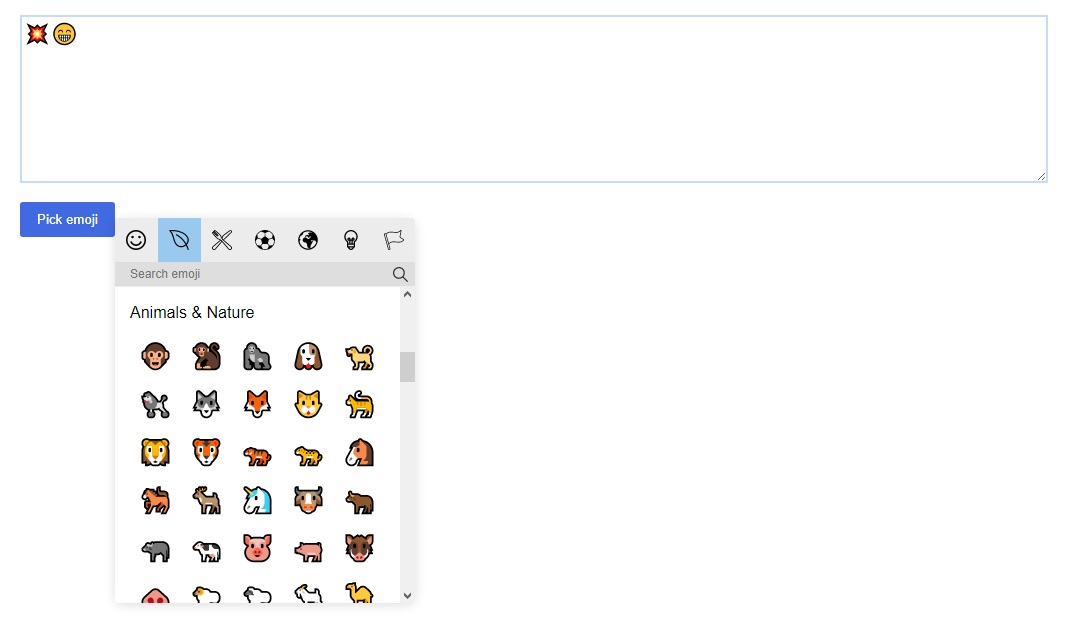
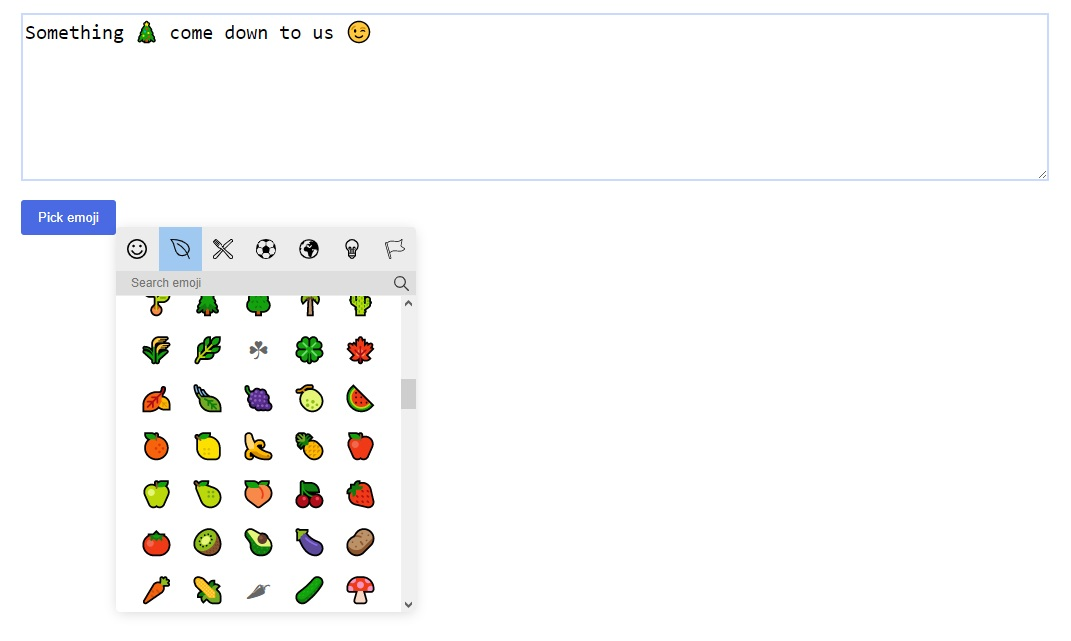
insertInto option, put emoji into cursor position

Changed region(s): [[0.0, 0.25, 0.9878, 0.9688], [0.0, 0.0, 0.9878, 0.0938]]

diff --git a/fgEmojiPicker.js b/fgEmojiPicker.js
@@ -33,6 +33,7 @@ const FgEmojiPicker = function (options) {
         this.variable.emit = this.options.emit || null;
         this.variable.position = this.options.position || null;
         this.variable.dir = this.options.dir || '';
+        this.insertInto = this.options.insertInto || undefined;
         if (!this.selectors.trigger) return;
 
         this.bindEvents();
@@ -60,10 +61,10 @@ const FgEmojiPicker = function (options) {
         }
     },
 
-        this.variable = {
-            position: null,
-            dir: '',
-        }
+    this.variable = {
+        position: null,
+        dir: '',
+    }
 
     this.selectors = {
         emit: null,
@@ -78,6 +79,21 @@ const FgEmojiPicker = function (options) {
     }
 
     this.functions = {
+
+        // Put in place 
+        putInPlace(myField, myValue) {
+            if (document.selection) {
+                myField.focus();
+                sel = document.selection.createRange();
+                sel.text = myValue;
+            } else if (myField.selectionStart || myField.selectionStart == "0") {
+                const startPos = myField.selectionStart;
+                const endPos = myField.selectionEnd;
+                myField.value = myField.value.substring(0, startPos) + myValue + myField.value.substring(endPos, myField.value.length);
+            } else {
+                myField.value += myValue;
+            }
+        },
 
         // Search
         search(e) {
@@ -276,6 +292,9 @@ const FgEmojiPicker = function (options) {
                     code: el.getAttribute('data-code')
                 }
                 if (this.variable.emit) this.variable.emit(emoji, this.triggerer)
+                
+                // If insert into option exists
+                if (this.insertInto) this.functions.putInPlace(this.insertInto, emoji.emoji)
 
                 const picker = document.querySelector('.fg-emoji-picker');
                 picker.remove();
@@ -387,22 +406,22 @@ const FgEmojiPicker = function (options) {
 
 
 
-        // Create emoji container / Builder engine
-        this.emojiPicker = () => {
+    // Create emoji container / Builder engine
+    this.emojiPicker = () => {
 
-            let categoryIcons = {
-                'smileys--people': '<svg width="20" version="1.1" id="Capa_1" xmlns="http://www.w3.org/2000/svg" xmlns:xlink="http://www.w3.org/1999/xlink" x="0px" y="0px" viewBox="0 0 512 512" style="enable-background:new 0 0 512 512;" xml:space="preserve"> <g> <g> <path d="M437.02,74.98C388.667,26.629,324.38,0,256,0S123.333,26.629,74.98,74.98C26.629,123.333,0,187.62,0,256 s26.629,132.668,74.98,181.02C123.333,485.371,187.62,512,256,512s132.667-26.629,181.02-74.98 C485.371,388.668,512,324.38,512,256S485.371,123.333,437.02,74.98z M256,472c-119.103,0-216-96.897-216-216S136.897,40,256,40 s216,96.897,216,216S375.103,472,256,472z"/> </g> </g> <g> <g> <path d="M368.993,285.776c-0.072,0.214-7.298,21.626-25.02,42.393C321.419,354.599,292.628,368,258.4,368 c-34.475,0-64.195-13.561-88.333-40.303c-18.92-20.962-27.272-42.54-27.33-42.691l-37.475,13.99 c0.42,1.122,10.533,27.792,34.013,54.273C171.022,389.074,212.215,408,258.4,408c46.412,0,86.904-19.076,117.099-55.166 c22.318-26.675,31.165-53.55,31.531-54.681L368.993,285.776z"/> </g> </g> <g> <g> <circle cx="168" cy="180.12" r="32"/> </g> </g> <g> <g> <circle cx="344" cy="180.12" r="32"/> </g> </g> <g> </g> <g> </g> <g> </g> </svg>',
-                'animals--nature': '<svg width="20" version="1.1" id="Capa_1" xmlns="http://www.w3.org/2000/svg" xmlns:xlink="http://www.w3.org/1999/xlink" x="0px" y="0px" viewBox="0 0 354.968 354.968" style="enable-background:new 0 0 354.968 354.968;" xml:space="preserve"> <g> <g> <path d="M350.775,341.319c-9.6-28.4-20.8-55.2-34.4-80.8c0.4-0.4,0.8-1.2,1.6-1.6c30.8-34.8,44-83.6,20.4-131.6 c-20.4-41.6-65.6-76.4-124.8-98.8c-57.2-22-127.6-32.4-200.4-27.2c-5.6,0.4-10,5.2-9.6,10.8c0.4,2.8,1.6,5.6,4,7.2 c36.8,31.6,50,79.2,63.6,126.8c8,28,15.6,55.6,28.4,81.2c0,0.4,0.4,0.4,0.4,0.8c30.8,59.6,78,81.2,122.8,78.4 c18.4-1.2,36-6.4,52.4-14.4c9.2-4.8,18-10.4,26-16.8c11.6,23.2,22,47.2,30.4,72.8c1.6,5.2,7.6,8,12.8,6.4 C349.975,352.119,352.775,346.519,350.775,341.319z M271.175,189.319c-34.8-44.4-78-82.4-131.6-112.4c-4.8-2.8-11.2-1.2-13.6,4 c-2.8,4.8-1.2,11.2,4,13.6c50.8,28.8,92.4,64.8,125.6,107.2c13.2,17.2,25.2,35.2,36,54c-8,7.6-16.4,13.6-25.6,18 c-14,7.2-28.8,11.6-44.4,12.4c-37.6,2.4-77.2-16-104-67.6v-0.4c-11.6-24-19.2-50.8-26.8-78c-12.4-43.2-24.4-86.4-53.6-120.4 c61.6-1.6,120.4,8.4,169.2,27.2c54.4,20.8,96,52,114,88.8c18.8,38,9.2,76.8-14.4,105.2 C295.575,222.919,283.975,205.719,271.175,189.319z"/> </g> </g> <g> </g> <g> </g> <g> </g> </svg>',
-                'travel--places': '<svg width="20" version="1.1" id="Layer_1" xmlns="http://www.w3.org/2000/svg" xmlns:xlink="http://www.w3.org/1999/xlink" x="0px" y="0px" viewBox="0 0 512.003 512.003" style="enable-background:new 0 0 512.003 512.003;" xml:space="preserve"> <g> <g> <path d="M492.638,416.168c-35.445-29.635-139.695-117.048-187.5-159.684c25.879-23.721,62.112-58.999,97.354-93.327 c40.344-39.302,78.458-76.417,95.729-91c8.76-7.385,13.781-18.24,13.781-29.781c0-14.438-7.51-27.24-20.094-34.24 c-12.521-6.958-27.26-6.615-39.438,0.948c-39.313,24.385-196.469,137.25-196.469,161.583c0,7.178-0.293,15.621-2.85,25.203 c-11.751-20.152-18.483-38.615-18.483-46.536c0-15.177-51.573-64.615-153.292-146.958c-4.219-3.427-10.385-3.115-14.25,0.75 l-64,64c-3.865,3.854-4.188,10.01-0.75,14.25c82.344,101.719,131.781,153.292,146.958,153.292c9.056,0,31.823,8.76,55.227,23.852 C157.266,300.56,60.87,381.466,19.388,416.147C7.066,426.449,0.003,441.605,0.003,457.73c0,29.927,24.344,54.271,54.271,54.271 c16.115,0,31.281-7.073,41.583-19.406c35.645-42.613,119.006-141.934,160.151-187.994 c42.456,47.553,130.417,152.456,160.172,188.035c10.292,12.313,25.448,19.365,41.552,19.365c29.927,0,54.271-24.344,54.271-54.271 C512.003,441.626,504.951,426.47,492.638,416.168z M277.336,172.543c11.219-17.521,121.354-104.99,186.385-145.333 c5.5-3.385,12.167-3.573,17.813-0.438c5.719,3.188,9.135,9.021,9.135,15.604c0,5.24-2.26,10.146-6.208,13.479 c-17.854,15.073-56.229,52.448-96.854,92.021c-35.809,34.887-72.602,70.699-98.298,94.167c-1.604-1.518-3.255-3.074-4.431-4.25 c-6.327-6.327-12.008-13.227-17.279-20.24C276.351,199.191,277.309,183.556,277.336,172.543z M79.493,478.907 c-6.24,7.479-15.438,11.76-25.219,11.76c-18.167,0-32.938-14.771-32.938-32.938c0-9.792,4.281-18.979,11.74-25.208 c42.625-35.651,143.104-119.991,189.254-161.26c5.341,4.263,10.582,8.732,15.465,13.615c1.036,1.036,2.443,2.535,3.746,3.905 C200.651,334.428,115.631,435.712,79.493,478.907z M457.732,490.668c-9.781,0-18.958-4.271-25.188-11.719 c-45.26-54.125-153.365-182.854-179.667-209.156c-32.146-32.146-80.802-56.208-101.417-56.208c-0.104,0-0.219,0.01-0.323,0.01 c-12.563-4.885-72.802-72.781-126.125-138.188l6.99-6.99l99.125,99.125c2.083,2.083,4.813,3.125,7.542,3.125 c2.729,0,5.458-1.042,7.542-3.125c4.167-4.167,4.167-10.917,0-15.083L47.086,53.334l6.25-6.25l99.125,99.125 c2.083,2.083,4.813,3.125,7.542,3.125s5.458-1.042,7.542-3.125c4.167-4.167,4.167-10.917,0-15.083L68.42,32.001l6.99-6.99 c65.406,53.323,133.292,113.49,137.927,124.323c0,22.229,24.146,71.229,56.458,103.542 c26.302,26.302,155.031,134.406,209.156,179.656c7.448,6.24,11.719,15.417,11.719,25.198 C490.67,475.897,475.899,490.668,457.732,490.668z"/> </g> </g> <g> </g> <g> </g> <g> </g> <g> </g> </svg>',
-                'activities': '<svg width="20" viewBox="0 0 480 480" xmlns="http://www.w3.org/2000/svg"><path d="m240 0c-132.546875 0-240 107.453125-240 240s107.453125 240 240 240 240-107.453125 240-240c-.148438-132.484375-107.515625-239.851562-240-240zm8.566406 69.191406 83.433594-33.351562c9.46875 4.285156 18.628906 9.222656 27.414062 14.777344l.21875.136718c8.632813 5.46875 16.882813 11.519532 24.695313 18.109375l.671875.585938c3.503906 2.984375 6.910156 6.074219 10.222656 9.261719.417969.410156.855469.800781 1.273438 1.21875 3.472656 3.390624 6.835937 6.886718 10.089844 10.484374.269531.304688.527343.625.796874.929688 2.855469 3.199219 5.601563 6.511719 8.265626 9.878906.640624.800782 1.28125 1.601563 1.902343 2.402344 2.890625 3.742188 5.6875 7.550781 8.328125 11.480469l-16.632812 70.703125-81.832032 27.28125-78.828124-63.074219zm-186.125 34.480469c.621094-.800781 1.253906-1.601563 1.894532-2.398437 2.632812-3.339844 5.355468-6.597657 8.167968-9.777344.304688-.335938.585938-.679688.886719-1.015625 3.234375-3.605469 6.582031-7.097657 10.050781-10.480469.398438-.390625.796875-.800781 1.214844-1.160156 3.285156-3.167969 6.664062-6.238282 10.136719-9.207032l.800781-.671874c7.742188-6.542969 15.914062-12.554688 24.460938-18l.3125-.199219c8.734374-5.542969 17.835937-10.472657 27.25-14.761719l83.816406 33.191406v80.800782l-78.832032 63.0625-81.832031-27.230469-16.632812-70.703125c2.664062-3.921875 5.429687-7.722656 8.304687-11.449219zm-9.640625 259.089844c-2.351562-3.585938-4.601562-7.238281-6.746093-10.960938l-.519532-.898437c-2.132812-3.703125-4.152344-7.46875-6.054687-11.292969l-.066407-.121094c-4.007812-8.046875-7.527343-16.328125-10.535156-24.800781v-.078125c-1.421875-4-2.71875-8.097656-3.917968-12.21875l-.433594-1.519531c-1.097656-3.871094-2.09375-7.785156-2.984375-11.742188-.078125-.386718-.175781-.753906-.253907-1.136718-1.964843-8.9375-3.375-17.984376-4.226562-27.097657l48.839844-58.605469 81.265625 27.085938 23.585937 94.335938-38.753906 51.5625zm240.472657 94.78125c-4 .992187-8.105469 1.847656-12.210938 2.617187-.574219.113282-1.160156.207032-1.734375.3125-3.496094.625-7.03125 1.160156-10.574219 1.597656-.945312.121094-1.882812.25-2.824218.363282-3.289063.382812-6.609376.671875-9.9375.910156-1.046876.070312-2.082032.175781-3.128907.242188-4.253906.261718-8.542969.414062-12.863281.414062-3.957031 0-7.890625-.105469-11.800781-.3125-.472657 0-.925781-.078125-1.398438-.113281-3.480469-.199219-6.945312-.460938-10.402343-.796875l-.398438-.074219c-7.574219-.820313-15.105469-2.023437-22.558594-3.597656l-47.320312-74.089844 38.144531-50.863281h111.46875l38.769531 51.199218zm165.496093-169.542969c-.082031.382812-.175781.753906-.257812 1.136719-.894531 3.953125-1.890625 7.867187-2.984375 11.742187l-.429688 1.519532c-1.203125 4.121093-2.496094 8.203124-3.921875 12.21875v.078124c-3.007812 8.472657-6.523437 16.753907-10.535156 24.800782l-.066406.121094c-1.914063 3.828124-3.929688 7.59375-6.054688 11.292968l-.519531.898438c-2.132812 3.734375-4.378906 7.378906-6.734375 10.945312l-78.929687 12.445313-39.023438-51.519531 23.574219-94.3125 81.265625-27.085938 48.839844 58.605469c-.847657 9.117187-2.257813 18.171875-4.222657 27.113281zm0 0"/></svg>',
-                'objects': '<svg width="20" version="1.1" xmlns="http://www.w3.org/2000/svg" xmlns:xlink="http://www.w3.org/1999/xlink" x="0px" y="0px" viewBox="0 0 1000 1000" enable-background="new 0 0 1000 1000" xml:space="preserve"> <g><g><path d="M846.5,153.5C939,246.1,990,369.1,990,500c0,130.9-51,253.9-143.5,346.5C753.9,939,630.9,990,500,990c-130.9,0-253.9-51-346.5-143.5C61,753.9,10,630.9,10,500c0-130.9,51-253.9,143.5-346.5C246.1,61,369.1,10,500,10C630.9,10,753.9,61,846.5,153.5z M803.2,803.2c60.3-60.3,100.5-135.5,117-217.3c-12.9,19-25.2,26-32.9-16.5c-7.9-69.3-71.5-25-111.5-49.6c-42.1,28.4-136.8-55.2-120.7,39.1c24.8,42.5,134-56.9,79.6,33.1c-34.7,62.8-126.9,201.9-114.9,274c1.5,105-107.3,21.9-144.8-12.9c-25.2-69.8-8.6-191.8-74.6-225.9c-71.6-3.1-133-9.6-160.8-89.6c-16.7-57.3,17.8-142.5,79.1-155.7c89.8-56.4,121.9,66.1,206.1,68.4c26.2-27.4,97.4-36.1,103.4-66.8c-55.3-9.8,70.1-46.5-5.3-67.4c-41.6,4.9-68.4,43.1-46.3,75.6C496,410.3,493.5,274.8,416,317.6c-2,67.6-126.5,21.9-43.1,8.2c28.7-12.5-46.8-48.8-6-42.2c20-1.1,87.4-24.7,69.2-40.6c37.5-23.3,69.1,55.8,105.8-1.8c26.5-44.3-11.1-52.5-44.4-30c-18.7-21,33.1-66.3,78.8-85.9c15.2-6.5,29.8-10.1,40.9-9.1c23,26.6,65.6,31.2,67.8-3.2c-57-27.3-119.9-41.7-185-41.7c-93.4,0-182.3,29.7-255.8,84.6c19.8,9.1,31,20.3,11.9,34.7c-14.8,44.1-74.8,103.2-127.5,94.9c-27.4,47.2-45.4,99.2-53.1,153.6c44.1,14.6,54.3,43.5,44.8,53.2c-22.5,19.6-36.3,47.4-43.4,77.8C91.3,658,132.6,739,196.8,803.2c81,81,188.6,125.6,303.2,125.6C614.5,928.8,722.2,884.2,803.2,803.2z"/></g><g></g><g></g><g></g><g></g><g></g><g></g><g></g><g></g><g></g><g></g><g></g><g></g><g></g><g></g><g></g></g> </svg>',
-                'symbols': '<svg width="20" version="1.1" id="Layer_1" xmlns="http://www.w3.org/2000/svg" xmlns:xlink="http://www.w3.org/1999/xlink" x="0px" y="0px" viewBox="0 0 512 512" style="enable-background:new 0 0 512 512;" xml:space="preserve"> <g> <g> <path d="M256,0C161.33,0,84.312,77.018,84.312,171.688c0,54.38,25.587,105.127,68.882,137.502c0,7.915,0,121.305,0,125.043 c0,9.22,7.475,16.696,16.696,16.696h10.168C187.72,485.81,218.85,512,256,512c37.15,0,68.28-26.19,75.943-61.072h10.168 c9.22,0,16.696-7.475,16.696-16.696c0-3.762,0-117.209,0-125.043c43.294-32.375,68.882-83.122,68.882-137.502 C427.688,77.018,350.67,0,256,0z M256,478.609c-18.567,0-34.507-11.461-41.116-27.68h82.233 C290.507,467.148,274.567,478.609,256,478.609z M325.415,417.537c-4.855,0-132.083,0-138.83,0v-39.041h138.83V417.537z M211.096,242.095h-8.057c-4.443,0-8.058-3.615-8.058-8.058s3.615-8.057,8.058-8.057c4.443,0,8.057,3.614,8.057,8.057V242.095z M244.488,345.105v-69.619h23.017v69.619H244.488z M332.824,286.684c-4.63,3.099-7.41,8.303-7.41,13.875v44.545h-24.519v-69.619 h8.058c22.855,0,41.449-18.594,41.449-41.45c0-22.855-18.593-41.449-41.449-41.449c-22.855,0-41.45,18.593-41.45,41.449v8.058 h-23.017v-8.058c0-22.855-18.593-41.449-41.449-41.449c-22.855,0-41.45,18.593-41.45,41.449s18.594,41.45,41.45,41.45h8.057 v69.619h-24.511V300.56c0-5.572-2.779-10.776-7.41-13.875c-38.491-25.759-61.472-68.748-61.472-114.996 c0-76.258,62.039-138.297,138.297-138.297S394.297,95.43,394.297,171.688C394.297,217.937,371.316,260.926,332.824,286.684z M300.896,242.095v-8.058c0-4.443,3.615-8.057,8.058-8.057c4.443,0,8.057,3.614,8.057,8.057s-3.614,8.058-8.057,8.058H300.896z"/> </g> </g> <g> </g> <g> </g> <g> </g> <g> </g> <g> </g> <g> </g> </svg>',
-                'flags': '<svg width="20" viewBox="0 0 60 60" xmlns="http://www.w3.org/2000/svg"><g id="Page-1" fill="none" fill-rule="evenodd"><g id="037---Waypoint-Flag" fill="rgb(0,0,0)" fill-rule="nonzero" transform="translate(0 -1)"><path id="Shape" d="m59.0752 28.5054c-3.7664123-1.873859-7.2507049-4.2678838-10.3506-7.1118 1.5923634-6.0211307 2.7737841-12.14349669 3.5361-18.3248.1788-1.44-.623-1.9047-.872-2.0126-.7016942-.26712004-1.4944908-.00419148-1.8975.6293-5.4726 6.5479-12.9687 5.8008-20.9053 5.0054-7.9985-.8-16.2506-1.6116-22.3684 5.4114-.85552122-1.067885-2.26533581-1.5228479-3.5837-1.1565l-.1377.0386c-1.81412367.5095218-2.87378593 2.391025-2.3691 4.2065l12.2089 43.6891c.3541969 1.2645215 1.5052141 2.1399137 2.8184 2.1435.2677318-.0003961.5341685-.0371657.792-.1093l1.0683-.2984h.001c.7485787-.2091577 1.3833789-.7071796 1.7646969-1.3844635.381318-.677284.4779045-1.478326.2685031-2.2268365l-3.7812-13.5327c5.5066-7.0807 13.18-6.3309 21.2988-5.52 8.1094.81 16.4863 1.646 22.64-5.7129l.0029-.0039c.6044387-.7534187.8533533-1.7315007.6826-2.6822-.0899994-.4592259-.3932698-.8481635-.8167-1.0474zm-42.0381 29.7446c-.1201754.2157725-.3219209.3742868-.56.44l-1.0684.2983c-.4949157.1376357-1.0078362-.1513714-1.1465-.646l-12.2095-43.6895c-.20840349-.7523825.23089143-1.5316224.9825-1.7428l.1367-.0381c.12366014-.0348192.25153137-.0524183.38-.0523.63429117.0010181 1.19083557.4229483 1.3631 1.0334l.1083.3876v.0021l6.2529 22.3755 5.8468 20.9238c.0669515.2380103.0360256.4929057-.0859.708zm40.6329-27.2925c-5.4736 6.5459-12.9707 5.7974-20.9043 5.0039-7.9033-.79-16.06-1.605-22.1552 5.1558l-5.463-19.548-2.0643-7.3873c5.5068-7.0794 13.1796-6.3119 21.3045-5.5007 7.7148.7695 15.6787 1.5664 21.7373-4.7095-.7467138 5.70010904-1.859683 11.3462228-3.332 16.9033-.1993066.7185155.0267229 1.4878686.583 1.9844 3.1786296 2.9100325 6.7366511 5.3762694 10.5771 7.3315-.0213812.2768572-.1194065.5422977-.2831.7666z"/></g></g></svg>',
-                'search': '<svg width="20" version="1.1" id="Capa_1" xmlns="http://www.w3.org/2000/svg" xmlns:xlink="http://www.w3.org/1999/xlink" x="0px" y="0px" viewBox="0 0 511.999 511.999" style="enable-background:new 0 0 511.999 511.999;" xml:space="preserve"> <g> <g> <path d="M508.874,478.708L360.142,329.976c28.21-34.827,45.191-79.103,45.191-127.309c0-111.75-90.917-202.667-202.667-202.667 S0,90.917,0,202.667s90.917,202.667,202.667,202.667c48.206,0,92.482-16.982,127.309-45.191l148.732,148.732 c4.167,4.165,10.919,4.165,15.086,0l15.081-15.082C513.04,489.627,513.04,482.873,508.874,478.708z M202.667,362.667 c-88.229,0-160-71.771-160-160s71.771-160,160-160s160,71.771,160,160S290.896,362.667,202.667,362.667z"/> </g> </g> <g> </g> <g> </g> <g> </g> <g> </g> </svg>',
-            }
+        let categoryIcons = {
+            'smileys--people': '<svg width="20" version="1.1" id="Capa_1" xmlns="http://www.w3.org/2000/svg" xmlns:xlink="http://www.w3.org/1999/xlink" x="0px" y="0px" viewBox="0 0 512 512" style="enable-background:new 0 0 512 512;" xml:space="preserve"> <g> <g> <path d="M437.02,74.98C388.667,26.629,324.38,0,256,0S123.333,26.629,74.98,74.98C26.629,123.333,0,187.62,0,256 s26.629,132.668,74.98,181.02C123.333,485.371,187.62,512,256,512s132.667-26.629,181.02-74.98 C485.371,388.668,512,324.38,512,256S485.371,123.333,437.02,74.98z M256,472c-119.103,0-216-96.897-216-216S136.897,40,256,40 s216,96.897,216,216S375.103,472,256,472z"/> </g> </g> <g> <g> <path d="M368.993,285.776c-0.072,0.214-7.298,21.626-25.02,42.393C321.419,354.599,292.628,368,258.4,368 c-34.475,0-64.195-13.561-88.333-40.303c-18.92-20.962-27.272-42.54-27.33-42.691l-37.475,13.99 c0.42,1.122,10.533,27.792,34.013,54.273C171.022,389.074,212.215,408,258.4,408c46.412,0,86.904-19.076,117.099-55.166 c22.318-26.675,31.165-53.55,31.531-54.681L368.993,285.776z"/> </g> </g> <g> <g> <circle cx="168" cy="180.12" r="32"/> </g> </g> <g> <g> <circle cx="344" cy="180.12" r="32"/> </g> </g> <g> </g> <g> </g> <g> </g> </svg>',
+            'animals--nature': '<svg width="20" version="1.1" id="Capa_1" xmlns="http://www.w3.org/2000/svg" xmlns:xlink="http://www.w3.org/1999/xlink" x="0px" y="0px" viewBox="0 0 354.968 354.968" style="enable-background:new 0 0 354.968 354.968;" xml:space="preserve"> <g> <g> <path d="M350.775,341.319c-9.6-28.4-20.8-55.2-34.4-80.8c0.4-0.4,0.8-1.2,1.6-1.6c30.8-34.8,44-83.6,20.4-131.6 c-20.4-41.6-65.6-76.4-124.8-98.8c-57.2-22-127.6-32.4-200.4-27.2c-5.6,0.4-10,5.2-9.6,10.8c0.4,2.8,1.6,5.6,4,7.2 c36.8,31.6,50,79.2,63.6,126.8c8,28,15.6,55.6,28.4,81.2c0,0.4,0.4,0.4,0.4,0.8c30.8,59.6,78,81.2,122.8,78.4 c18.4-1.2,36-6.4,52.4-14.4c9.2-4.8,18-10.4,26-16.8c11.6,23.2,22,47.2,30.4,72.8c1.6,5.2,7.6,8,12.8,6.4 C349.975,352.119,352.775,346.519,350.775,341.319z M271.175,189.319c-34.8-44.4-78-82.4-131.6-112.4c-4.8-2.8-11.2-1.2-13.6,4 c-2.8,4.8-1.2,11.2,4,13.6c50.8,28.8,92.4,64.8,125.6,107.2c13.2,17.2,25.2,35.2,36,54c-8,7.6-16.4,13.6-25.6,18 c-14,7.2-28.8,11.6-44.4,12.4c-37.6,2.4-77.2-16-104-67.6v-0.4c-11.6-24-19.2-50.8-26.8-78c-12.4-43.2-24.4-86.4-53.6-120.4 c61.6-1.6,120.4,8.4,169.2,27.2c54.4,20.8,96,52,114,88.8c18.8,38,9.2,76.8-14.4,105.2 C295.575,222.919,283.975,205.719,271.175,189.319z"/> </g> </g> <g> </g> <g> </g> <g> </g> </svg>',
+            'travel--places': '<svg width="20" version="1.1" id="Layer_1" xmlns="http://www.w3.org/2000/svg" xmlns:xlink="http://www.w3.org/1999/xlink" x="0px" y="0px" viewBox="0 0 512.003 512.003" style="enable-background:new 0 0 512.003 512.003;" xml:space="preserve"> <g> <g> <path d="M492.638,416.168c-35.445-29.635-139.695-117.048-187.5-159.684c25.879-23.721,62.112-58.999,97.354-93.327 c40.344-39.302,78.458-76.417,95.729-91c8.76-7.385,13.781-18.24,13.781-29.781c0-14.438-7.51-27.24-20.094-34.24 c-12.521-6.958-27.26-6.615-39.438,0.948c-39.313,24.385-196.469,137.25-196.469,161.583c0,7.178-0.293,15.621-2.85,25.203 c-11.751-20.152-18.483-38.615-18.483-46.536c0-15.177-51.573-64.615-153.292-146.958c-4.219-3.427-10.385-3.115-14.25,0.75 l-64,64c-3.865,3.854-4.188,10.01-0.75,14.25c82.344,101.719,131.781,153.292,146.958,153.292c9.056,0,31.823,8.76,55.227,23.852 C157.266,300.56,60.87,381.466,19.388,416.147C7.066,426.449,0.003,441.605,0.003,457.73c0,29.927,24.344,54.271,54.271,54.271 c16.115,0,31.281-7.073,41.583-19.406c35.645-42.613,119.006-141.934,160.151-187.994 c42.456,47.553,130.417,152.456,160.172,188.035c10.292,12.313,25.448,19.365,41.552,19.365c29.927,0,54.271-24.344,54.271-54.271 C512.003,441.626,504.951,426.47,492.638,416.168z M277.336,172.543c11.219-17.521,121.354-104.99,186.385-145.333 c5.5-3.385,12.167-3.573,17.813-0.438c5.719,3.188,9.135,9.021,9.135,15.604c0,5.24-2.26,10.146-6.208,13.479 c-17.854,15.073-56.229,52.448-96.854,92.021c-35.809,34.887-72.602,70.699-98.298,94.167c-1.604-1.518-3.255-3.074-4.431-4.25 c-6.327-6.327-12.008-13.227-17.279-20.24C276.351,199.191,277.309,183.556,277.336,172.543z M79.493,478.907 c-6.24,7.479-15.438,11.76-25.219,11.76c-18.167,0-32.938-14.771-32.938-32.938c0-9.792,4.281-18.979,11.74-25.208 c42.625-35.651,143.104-119.991,189.254-161.26c5.341,4.263,10.582,8.732,15.465,13.615c1.036,1.036,2.443,2.535,3.746,3.905 C200.651,334.428,115.631,435.712,79.493,478.907z M457.732,490.668c-9.781,0-18.958-4.271-25.188-11.719 c-45.26-54.125-153.365-182.854-179.667-209.156c-32.146-32.146-80.802-56.208-101.417-56.208c-0.104,0-0.219,0.01-0.323,0.01 c-12.563-4.885-72.802-72.781-126.125-138.188l6.99-6.99l99.125,99.125c2.083,2.083,4.813,3.125,7.542,3.125 c2.729,0,5.458-1.042,7.542-3.125c4.167-4.167,4.167-10.917,0-15.083L47.086,53.334l6.25-6.25l99.125,99.125 c2.083,2.083,4.813,3.125,7.542,3.125s5.458-1.042,7.542-3.125c4.167-4.167,4.167-10.917,0-15.083L68.42,32.001l6.99-6.99 c65.406,53.323,133.292,113.49,137.927,124.323c0,22.229,24.146,71.229,56.458,103.542 c26.302,26.302,155.031,134.406,209.156,179.656c7.448,6.24,11.719,15.417,11.719,25.198 C490.67,475.897,475.899,490.668,457.732,490.668z"/> </g> </g> <g> </g> <g> </g> <g> </g> <g> </g> </svg>',
+            'activities': '<svg width="20" viewBox="0 0 480 480" xmlns="http://www.w3.org/2000/svg"><path d="m240 0c-132.546875 0-240 107.453125-240 240s107.453125 240 240 240 240-107.453125 240-240c-.148438-132.484375-107.515625-239.851562-240-240zm8.566406 69.191406 83.433594-33.351562c9.46875 4.285156 18.628906 9.222656 27.414062 14.777344l.21875.136718c8.632813 5.46875 16.882813 11.519532 24.695313 18.109375l.671875.585938c3.503906 2.984375 6.910156 6.074219 10.222656 9.261719.417969.410156.855469.800781 1.273438 1.21875 3.472656 3.390624 6.835937 6.886718 10.089844 10.484374.269531.304688.527343.625.796874.929688 2.855469 3.199219 5.601563 6.511719 8.265626 9.878906.640624.800782 1.28125 1.601563 1.902343 2.402344 2.890625 3.742188 5.6875 7.550781 8.328125 11.480469l-16.632812 70.703125-81.832032 27.28125-78.828124-63.074219zm-186.125 34.480469c.621094-.800781 1.253906-1.601563 1.894532-2.398437 2.632812-3.339844 5.355468-6.597657 8.167968-9.777344.304688-.335938.585938-.679688.886719-1.015625 3.234375-3.605469 6.582031-7.097657 10.050781-10.480469.398438-.390625.796875-.800781 1.214844-1.160156 3.285156-3.167969 6.664062-6.238282 10.136719-9.207032l.800781-.671874c7.742188-6.542969 15.914062-12.554688 24.460938-18l.3125-.199219c8.734374-5.542969 17.835937-10.472657 27.25-14.761719l83.816406 33.191406v80.800782l-78.832032 63.0625-81.832031-27.230469-16.632812-70.703125c2.664062-3.921875 5.429687-7.722656 8.304687-11.449219zm-9.640625 259.089844c-2.351562-3.585938-4.601562-7.238281-6.746093-10.960938l-.519532-.898437c-2.132812-3.703125-4.152344-7.46875-6.054687-11.292969l-.066407-.121094c-4.007812-8.046875-7.527343-16.328125-10.535156-24.800781v-.078125c-1.421875-4-2.71875-8.097656-3.917968-12.21875l-.433594-1.519531c-1.097656-3.871094-2.09375-7.785156-2.984375-11.742188-.078125-.386718-.175781-.753906-.253907-1.136718-1.964843-8.9375-3.375-17.984376-4.226562-27.097657l48.839844-58.605469 81.265625 27.085938 23.585937 94.335938-38.753906 51.5625zm240.472657 94.78125c-4 .992187-8.105469 1.847656-12.210938 2.617187-.574219.113282-1.160156.207032-1.734375.3125-3.496094.625-7.03125 1.160156-10.574219 1.597656-.945312.121094-1.882812.25-2.824218.363282-3.289063.382812-6.609376.671875-9.9375.910156-1.046876.070312-2.082032.175781-3.128907.242188-4.253906.261718-8.542969.414062-12.863281.414062-3.957031 0-7.890625-.105469-11.800781-.3125-.472657 0-.925781-.078125-1.398438-.113281-3.480469-.199219-6.945312-.460938-10.402343-.796875l-.398438-.074219c-7.574219-.820313-15.105469-2.023437-22.558594-3.597656l-47.320312-74.089844 38.144531-50.863281h111.46875l38.769531 51.199218zm165.496093-169.542969c-.082031.382812-.175781.753906-.257812 1.136719-.894531 3.953125-1.890625 7.867187-2.984375 11.742187l-.429688 1.519532c-1.203125 4.121093-2.496094 8.203124-3.921875 12.21875v.078124c-3.007812 8.472657-6.523437 16.753907-10.535156 24.800782l-.066406.121094c-1.914063 3.828124-3.929688 7.59375-6.054688 11.292968l-.519531.898438c-2.132812 3.734375-4.378906 7.378906-6.734375 10.945312l-78.929687 12.445313-39.023438-51.519531 23.574219-94.3125 81.265625-27.085938 48.839844 58.605469c-.847657 9.117187-2.257813 18.171875-4.222657 27.113281zm0 0"/></svg>',
+            'objects': '<svg width="20" version="1.1" xmlns="http://www.w3.org/2000/svg" xmlns:xlink="http://www.w3.org/1999/xlink" x="0px" y="0px" viewBox="0 0 1000 1000" enable-background="new 0 0 1000 1000" xml:space="preserve"> <g><g><path d="M846.5,153.5C939,246.1,990,369.1,990,500c0,130.9-51,253.9-143.5,346.5C753.9,939,630.9,990,500,990c-130.9,0-253.9-51-346.5-143.5C61,753.9,10,630.9,10,500c0-130.9,51-253.9,143.5-346.5C246.1,61,369.1,10,500,10C630.9,10,753.9,61,846.5,153.5z M803.2,803.2c60.3-60.3,100.5-135.5,117-217.3c-12.9,19-25.2,26-32.9-16.5c-7.9-69.3-71.5-25-111.5-49.6c-42.1,28.4-136.8-55.2-120.7,39.1c24.8,42.5,134-56.9,79.6,33.1c-34.7,62.8-126.9,201.9-114.9,274c1.5,105-107.3,21.9-144.8-12.9c-25.2-69.8-8.6-191.8-74.6-225.9c-71.6-3.1-133-9.6-160.8-89.6c-16.7-57.3,17.8-142.5,79.1-155.7c89.8-56.4,121.9,66.1,206.1,68.4c26.2-27.4,97.4-36.1,103.4-66.8c-55.3-9.8,70.1-46.5-5.3-67.4c-41.6,4.9-68.4,43.1-46.3,75.6C496,410.3,493.5,274.8,416,317.6c-2,67.6-126.5,21.9-43.1,8.2c28.7-12.5-46.8-48.8-6-42.2c20-1.1,87.4-24.7,69.2-40.6c37.5-23.3,69.1,55.8,105.8-1.8c26.5-44.3-11.1-52.5-44.4-30c-18.7-21,33.1-66.3,78.8-85.9c15.2-6.5,29.8-10.1,40.9-9.1c23,26.6,65.6,31.2,67.8-3.2c-57-27.3-119.9-41.7-185-41.7c-93.4,0-182.3,29.7-255.8,84.6c19.8,9.1,31,20.3,11.9,34.7c-14.8,44.1-74.8,103.2-127.5,94.9c-27.4,47.2-45.4,99.2-53.1,153.6c44.1,14.6,54.3,43.5,44.8,53.2c-22.5,19.6-36.3,47.4-43.4,77.8C91.3,658,132.6,739,196.8,803.2c81,81,188.6,125.6,303.2,125.6C614.5,928.8,722.2,884.2,803.2,803.2z"/></g><g></g><g></g><g></g><g></g><g></g><g></g><g></g><g></g><g></g><g></g><g></g><g></g><g></g><g></g><g></g></g> </svg>',
+            'symbols': '<svg width="20" version="1.1" id="Layer_1" xmlns="http://www.w3.org/2000/svg" xmlns:xlink="http://www.w3.org/1999/xlink" x="0px" y="0px" viewBox="0 0 512 512" style="enable-background:new 0 0 512 512;" xml:space="preserve"> <g> <g> <path d="M256,0C161.33,0,84.312,77.018,84.312,171.688c0,54.38,25.587,105.127,68.882,137.502c0,7.915,0,121.305,0,125.043 c0,9.22,7.475,16.696,16.696,16.696h10.168C187.72,485.81,218.85,512,256,512c37.15,0,68.28-26.19,75.943-61.072h10.168 c9.22,0,16.696-7.475,16.696-16.696c0-3.762,0-117.209,0-125.043c43.294-32.375,68.882-83.122,68.882-137.502 C427.688,77.018,350.67,0,256,0z M256,478.609c-18.567,0-34.507-11.461-41.116-27.68h82.233 C290.507,467.148,274.567,478.609,256,478.609z M325.415,417.537c-4.855,0-132.083,0-138.83,0v-39.041h138.83V417.537z M211.096,242.095h-8.057c-4.443,0-8.058-3.615-8.058-8.058s3.615-8.057,8.058-8.057c4.443,0,8.057,3.614,8.057,8.057V242.095z M244.488,345.105v-69.619h23.017v69.619H244.488z M332.824,286.684c-4.63,3.099-7.41,8.303-7.41,13.875v44.545h-24.519v-69.619 h8.058c22.855,0,41.449-18.594,41.449-41.45c0-22.855-18.593-41.449-41.449-41.449c-22.855,0-41.45,18.593-41.45,41.449v8.058 h-23.017v-8.058c0-22.855-18.593-41.449-41.449-41.449c-22.855,0-41.45,18.593-41.45,41.449s18.594,41.45,41.45,41.45h8.057 v69.619h-24.511V300.56c0-5.572-2.779-10.776-7.41-13.875c-38.491-25.759-61.472-68.748-61.472-114.996 c0-76.258,62.039-138.297,138.297-138.297S394.297,95.43,394.297,171.688C394.297,217.937,371.316,260.926,332.824,286.684z M300.896,242.095v-8.058c0-4.443,3.615-8.057,8.058-8.057c4.443,0,8.057,3.614,8.057,8.057s-3.614,8.058-8.057,8.058H300.896z"/> </g> </g> <g> </g> <g> </g> <g> </g> <g> </g> <g> </g> <g> </g> </svg>',
+            'flags': '<svg width="20" viewBox="0 0 60 60" xmlns="http://www.w3.org/2000/svg"><g id="Page-1" fill="none" fill-rule="evenodd"><g id="037---Waypoint-Flag" fill="rgb(0,0,0)" fill-rule="nonzero" transform="translate(0 -1)"><path id="Shape" d="m59.0752 28.5054c-3.7664123-1.873859-7.2507049-4.2678838-10.3506-7.1118 1.5923634-6.0211307 2.7737841-12.14349669 3.5361-18.3248.1788-1.44-.623-1.9047-.872-2.0126-.7016942-.26712004-1.4944908-.00419148-1.8975.6293-5.4726 6.5479-12.9687 5.8008-20.9053 5.0054-7.9985-.8-16.2506-1.6116-22.3684 5.4114-.85552122-1.067885-2.26533581-1.5228479-3.5837-1.1565l-.1377.0386c-1.81412367.5095218-2.87378593 2.391025-2.3691 4.2065l12.2089 43.6891c.3541969 1.2645215 1.5052141 2.1399137 2.8184 2.1435.2677318-.0003961.5341685-.0371657.792-.1093l1.0683-.2984h.001c.7485787-.2091577 1.3833789-.7071796 1.7646969-1.3844635.381318-.677284.4779045-1.478326.2685031-2.2268365l-3.7812-13.5327c5.5066-7.0807 13.18-6.3309 21.2988-5.52 8.1094.81 16.4863 1.646 22.64-5.7129l.0029-.0039c.6044387-.7534187.8533533-1.7315007.6826-2.6822-.0899994-.4592259-.3932698-.8481635-.8167-1.0474zm-42.0381 29.7446c-.1201754.2157725-.3219209.3742868-.56.44l-1.0684.2983c-.4949157.1376357-1.0078362-.1513714-1.1465-.646l-12.2095-43.6895c-.20840349-.7523825.23089143-1.5316224.9825-1.7428l.1367-.0381c.12366014-.0348192.25153137-.0524183.38-.0523.63429117.0010181 1.19083557.4229483 1.3631 1.0334l.1083.3876v.0021l6.2529 22.3755 5.8468 20.9238c.0669515.2380103.0360256.4929057-.0859.708zm40.6329-27.2925c-5.4736 6.5459-12.9707 5.7974-20.9043 5.0039-7.9033-.79-16.06-1.605-22.1552 5.1558l-5.463-19.548-2.0643-7.3873c5.5068-7.0794 13.1796-6.3119 21.3045-5.5007 7.7148.7695 15.6787 1.5664 21.7373-4.7095-.7467138 5.70010904-1.859683 11.3462228-3.332 16.9033-.1993066.7185155.0267229 1.4878686.583 1.9844 3.1786296 2.9100325 6.7366511 5.3762694 10.5771 7.3315-.0213812.2768572-.1194065.5422977-.2831.7666z"/></g></g></svg>',
+            'search': '<svg width="20" version="1.1" id="Capa_1" xmlns="http://www.w3.org/2000/svg" xmlns:xlink="http://www.w3.org/1999/xlink" x="0px" y="0px" viewBox="0 0 511.999 511.999" style="enable-background:new 0 0 511.999 511.999;" xml:space="preserve"> <g> <g> <path d="M508.874,478.708L360.142,329.976c28.21-34.827,45.191-79.103,45.191-127.309c0-111.75-90.917-202.667-202.667-202.667 S0,90.917,0,202.667s90.917,202.667,202.667,202.667c48.206,0,92.482-16.982,127.309-45.191l148.732,148.732 c4.167,4.165,10.919,4.165,15.086,0l15.081-15.082C513.04,489.627,513.04,482.873,508.874,478.708z M202.667,362.667 c-88.229,0-160-71.771-160-160s71.771-160,160-160s160,71.771,160,160S290.896,362.667,202.667,362.667z"/> </g> </g> <g> </g> <g> </g> <g> </g> <g> </g> </svg>',
+        }
 
 
-            let picker = `
+        let picker = `
         <div class="fg-emoji-picker">
             <div class="fg-emoji-picker-categories">%categories%
                 <div class="fg-emoji-picker-search">
@@ -413,12 +432,10 @@ const FgEmojiPicker = function (options) {
             <div>%pickerContainer%</div>
         </div>`;
 
-            let categories = '<ul>%categories%</ul>';
+            let categories      = '<ul>%categories%</ul>';
             let categoriesInner = ``;
-            let outerUl = `
-        <div class="fg-emoji-picker-all-categories">%outerUL%</div>
-        `;
-            let innerLists = ``;
+            let outerUl         = `<div class="fg-emoji-picker-all-categories">%outerUL%</div>`;
+            let innerLists      = ``;
 
             let fetchData = null;
             if (this.emojiJson) {
@@ -437,17 +454,17 @@ const FgEmojiPicker = function (options) {
                             categoriesInner += `<li class="${index === 1 ? 'active' : ''}" id="${keyToId}" data-index="${keyToId}"><a href="#${keyToId}">${categoryIcons[keyToId]}</a></li>`
 
                             innerLists += `
-                    <ul class="fg-emoji-picker-category ${index === 1 ? 'active' : ''}" id="${keyToId}" category-name="${key}">
-                        <div class="fg-emoji-picker-container-title">${key}</div>
-                        <div class="fg-emoji-picker-grid">`;
+                            <ul class="fg-emoji-picker-category ${index === 1 ? 'active' : ''}" id="${keyToId}" category-name="${key}">
+                                <div class="fg-emoji-picker-container-title">${key}</div>
+                                <div class="fg-emoji-picker-grid">`;
 
-                            // Loop through emoji items
-                            categories.forEach(item => {
-                                innerLists += `<li data-name="${item.description.toLowerCase()}"><a class="fg-emoji-picker-item" title="${item.description}" data-name="${item.description.toLowerCase()}" data-code="${item.code}" href="${item.emoji}">${item.emoji}</a></li>`;
-                            });
-                            innerLists += `
-                        </div>
-                    </ul>`;
+                                    // Loop through emoji items
+                                    categories.forEach(item => {
+                                        innerLists += `<li data-name="${item.description.toLowerCase()}"><a class="fg-emoji-picker-item" title="${item.description}" data-name="${item.description.toLowerCase()}" data-code="${item.code}" href="${item.emoji}">${item.emoji}</a></li>`;
+                                    });
+                                    innerLists += `
+                                </div>
+                            </ul>`;
                         }
                     }
                     let allSmiles = outerUl.replace('%outerUL%', innerLists)
@@ -478,18 +495,18 @@ const FgEmojiPicker = function (options) {
                                 categoriesInner += `<li class="${index === 1 ? 'active' : ''}" id="${keyToId}" data-index="${keyToId}"><a href="#${keyToId}">${categoryIcons[keyToId]}</a></li>`
 
                                 innerLists += `
-                        <ul class="fg-emoji-picker-category ${index === 1 ? 'active' : ''}" id="${keyToId}" category-name="${key}">
-                            <div class="fg-emoji-picker-container-title">${key}</div>
-                            <div class="fg-emoji-picker-grid">`;
+                                <ul class="fg-emoji-picker-category ${index === 1 ? 'active' : ''}" id="${keyToId}" category-name="${key}">
+                                    <div class="fg-emoji-picker-container-title">${key}</div>
+                                    <div class="fg-emoji-picker-grid">`;
 
-                                // Loop through emoji items
-                                categories.forEach(item => {
-                                    innerLists += `<li data-name="${item.description.toLowerCase()}"><a class="fg-emoji-picker-item" title="${item.description}" data-name="${item.description.toLowerCase()}" data-code="${item.code}" href="${item.emoji}">${item.emoji}</a></li>`;
-                                })
+                                        // Loop through emoji items
+                                        categories.forEach(item => {
+                                            innerLists += `<li data-name="${item.description.toLowerCase()}"><a class="fg-emoji-picker-item" title="${item.description}" data-name="${item.description.toLowerCase()}" data-code="${item.code}" href="${item.emoji}">${item.emoji}</a></li>`;
+                                        })
 
-                                innerLists += `
-                            </div>
-                        </ul>`;
+                                        innerLists += `
+                                    </div>
+                                </ul>`;
                             }
                         }
 

diff --git a/index.html b/index.html
@@ -47,12 +47,12 @@
     <script src="fgEmojiPicker.js"></script>
     <script>
         new FgEmojiPicker({
-            trigger: ['button', 'textarea'],
+            trigger: ['button'],
             position: ['bottom', 'right'],
             preFetch: true,
+            insertInto: document.querySelector('textarea'),
             emit(obj, triggerElement) {
-                const emoji = obj.emoji;
-                document.querySelector('textarea').value += emoji;
+                console.log(obj, triggerElement);
             }
         });
     </script>

diff --git a/README.md b/README.md
@@ -22,20 +22,20 @@ new FgEmojiPicker({
 *  position: ['top', 'left', 'right', 'bottom']
 *  dir: 'directory/to/json', (without json name)
 *  preFetch: true, // load emoji json when function called 
+*  insertInto: document.querySelector('textarea'), // Takes element (textarea for example) where emoji going to be inserted
 *  emit: (emoji, triggerElement) {console.log(emoji)}
 
 emit() collback returns two argumens. First is emoji it self and second is the trigger element.
 
 
 ```
-new FgEmojiPicker({
-    trigger: ['button', 'textarea'],
+ new FgEmojiPicker({
+    trigger: ['button'],
     position: ['bottom', 'right'],
     preFetch: true,
-    dir: `../js/`,
+    insertInto: document.querySelector('textarea'),
     emit(obj, triggerElement) {
-        const emoji = obj.emoji;
-        document.querySelector('textarea').value += emoji;
+        console.log(obj, triggerElement);
     }
 });
 ```
